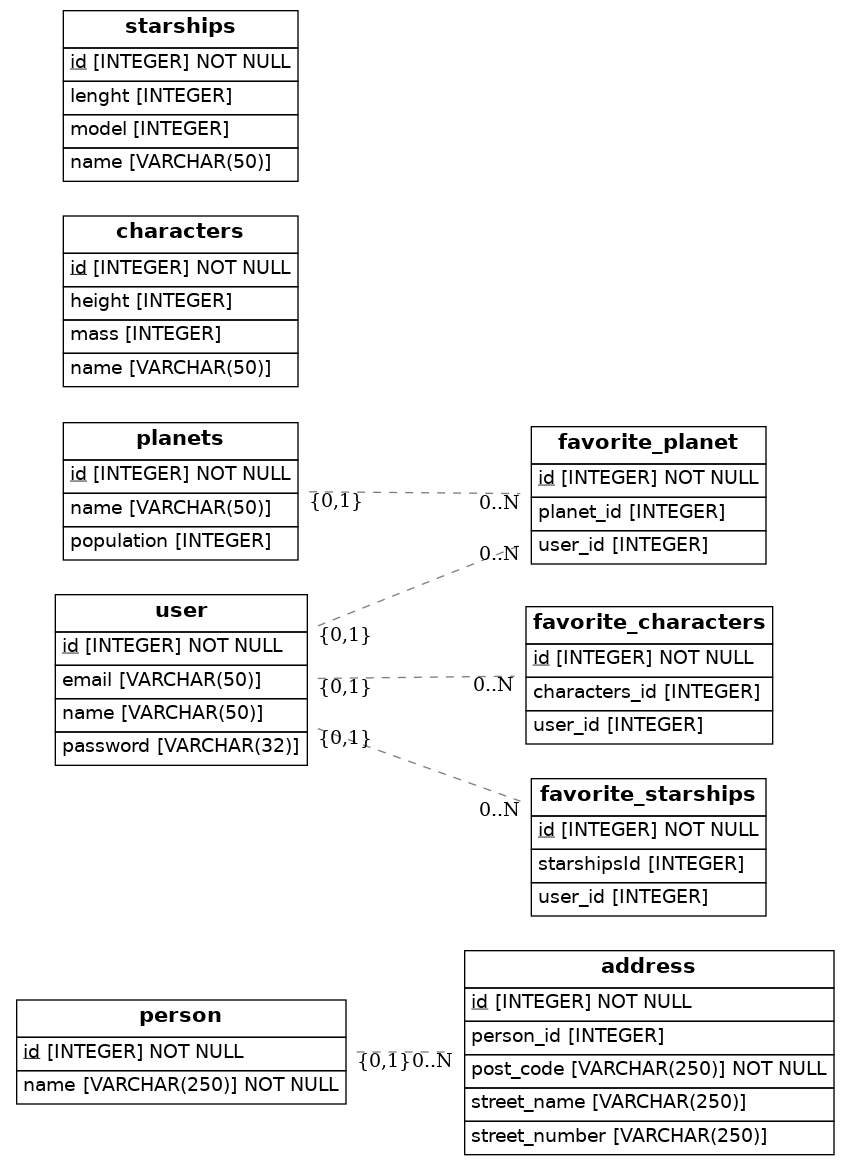
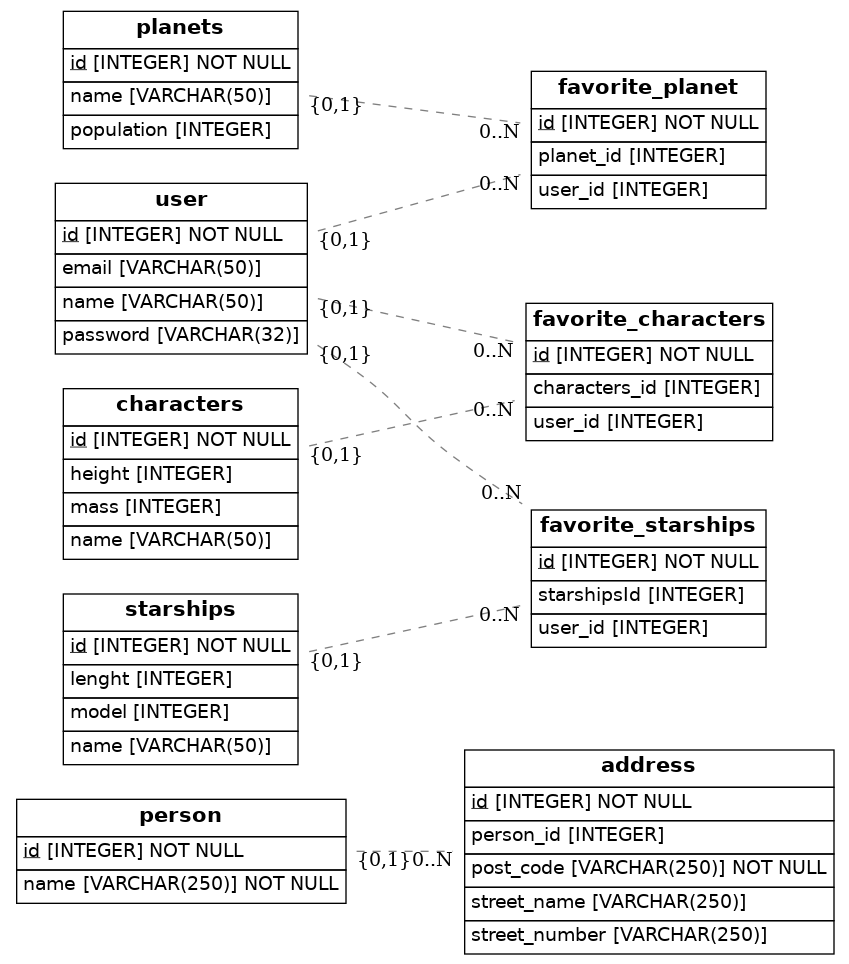
[se completan las relaciones de starships y characters]

diff --git a/src/models.py b/src/models.py
@@ -60,7 +60,7 @@ class FavoriteCharacters(Base):
     id=Column(Integer,primary_key=True)
     user_id = Column(Integer, ForeignKey('user.id'))
     user=relationship(User)
-    characters_id = Column(Integer, ForeignKey('Characters.id'))
+    characters_id = Column(Integer, ForeignKey('characters.id'))
     characters=relationship(Characters)
 
 class StarShips(Base):
@@ -76,7 +76,8 @@ class FavoriteStarShips(Base):
     id=Column(Integer,primary_key=True)
     user_id = Column(Integer, ForeignKey('user.id'))
     user=relationship(User)
-    starshipsId=Column(Integer)
+    starshipsId=Column(Integer, ForeignKey('starships.id'))
+    starships=relationship(StarShips)
 
 
     def to_dict(self):
